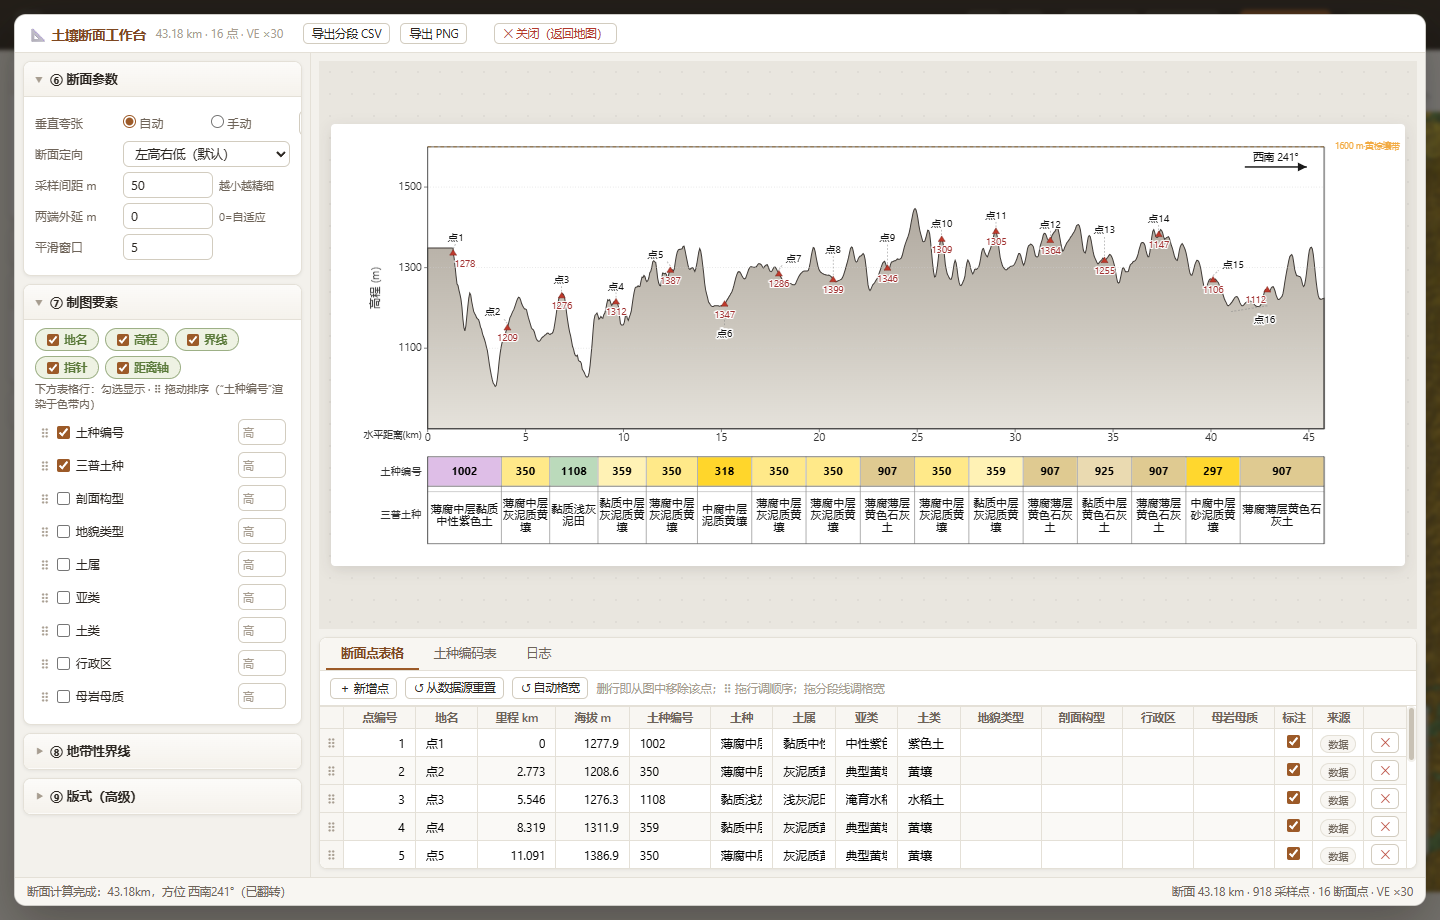
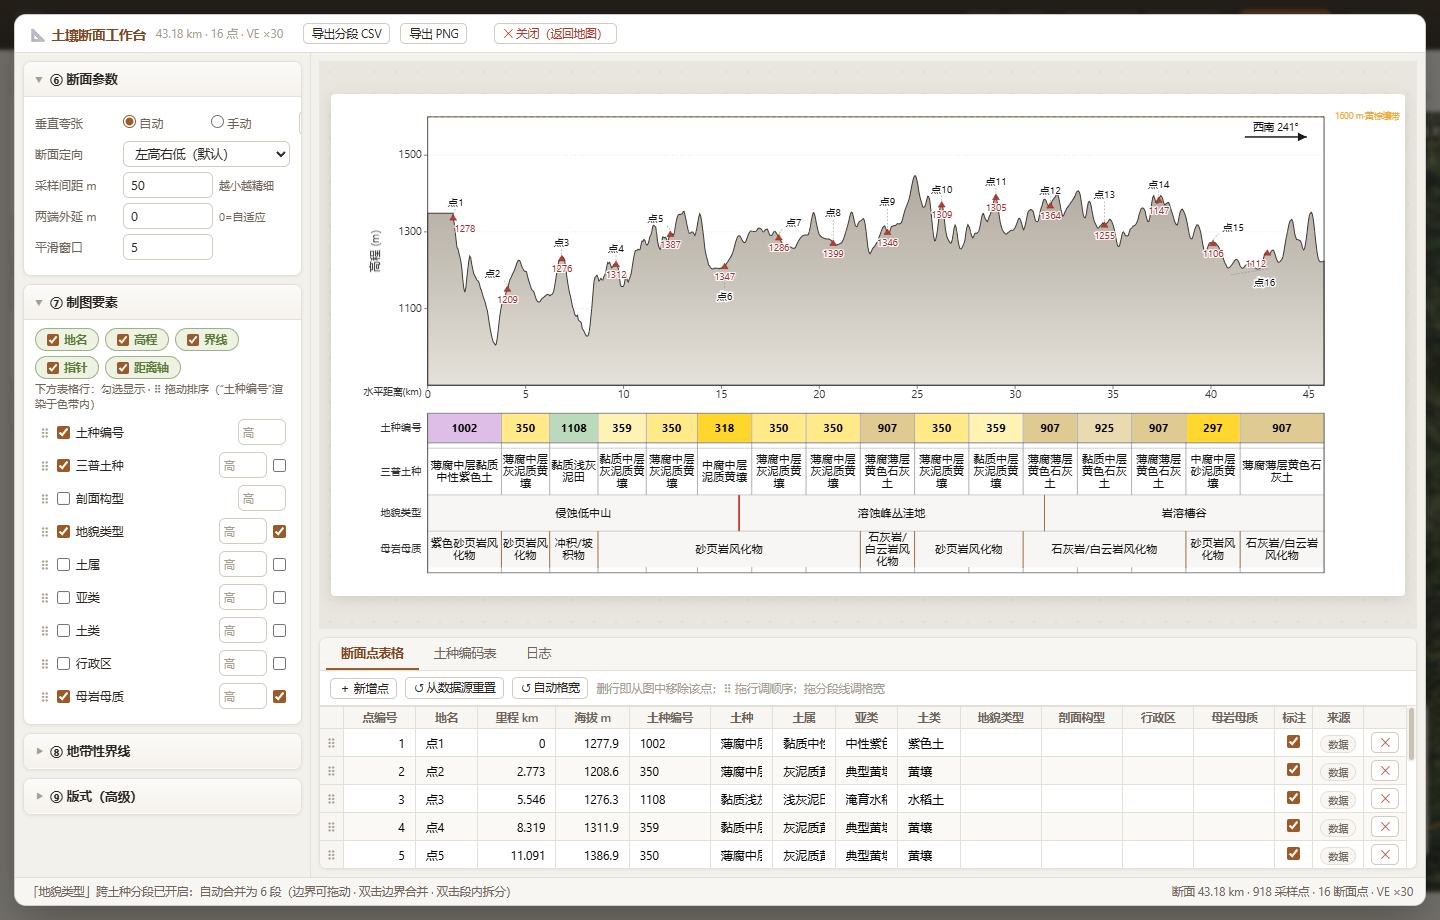
feat: 断面表格行级跨土种分段（band 行）——相邻同值合并、边界独立可拖、双击合并/拆分、段文字编辑；README 断面截图更新（土种编号/三普土种/母岩母质/地貌类型四行，地貌 3 段不对齐）

diff --git a/dist/app.js b/dist/app.js
@@ -88,6 +88,8 @@ const S = {
     labelOffsets: null,     // 地名手动放置偏移 { [no]: {dx,dy} }
     pointerPos: null,       // 方向指针手动位置
     cellSel: null,          // 当前选中格子
+    rowBands: null,         // 行级独立分段 { [rowKey]: [{a,b,text},...] }（与土种格不对齐；相邻同值合并初始化）
+    bandSel: null,          // 当前选中的行分段 { key, k }
     layout: { figW: 0, terrainH: 470, topPad: 1.28, stripH: 46, rowH: 58, fontScale: 1, terr1: "#b0a99f", terr2: "#ccc7be", terr3: "#e5e2db" },
   },
   table: [],
@@ -869,12 +871,51 @@ function zoneRowHtml(z, i) {
   </div><datalist id="tlNames">${(S.builtin.tlNames || []).map(t => `<option value="${esc(t)}"/>`).join("")}</datalist>`;
 }
 function rowItemHtml(r, i) {
+  const bandable = r.key !== "code" && r.key !== "profile";
   return `<div class="rrow" data-i="${i}">
     <span class="gripd" title="拖动调整顺序">⠿</span>
     <input type="checkbox" class="r-on" ${r.on ? "checked" : ""}/>
     <span class="lbl">${r.label}</span>
     <input type="number" class="r-rh" min="20" max="200" step="2" value="${r.rh || ""}" placeholder="高" title="本行行高 px（留空用默认）"/>
+    ${bandable ? `<input type="checkbox" class="r-band" ${r.band ? "checked" : ""} title="跨土种分段：相邻同值自动合并为一条（如地貌类型往往跨多个土种），边界可拖动、双击合并/拆分，与土种格不对齐"/>` : ""}
   </div>`;
+}
+
+/* 开/关行级独立分段：开启时按当前逐格值相邻同值合并初始化条带 */
+function toggleBand(row, on) {
+  const c = S.cfg;
+  row.band = !!on;
+  if (!on) {
+    if (c.rowBands) delete c.rowBands[row.key];
+    if (c.bandSel && c.bandSel.key === row.key) { c.bandSel = null; hideCellBar(); }
+    log(`「${row.label}」已恢复逐格显示`);
+    return;
+  }
+  const svg = $("figure"), ctx = svg && svg.__dragCtx;
+  const res = S.result;
+  if (!ctx || !res || !Array.isArray(res.segments) || res.segments.length < 1) {
+    log("请先生成断面，再开启跨土种分段");
+    row.band = false;
+    buildSidebar();
+    return;
+  }
+  const B = ctx.B;
+  const valOf = (s) => {
+    if (row.key === "lith") return s.lith || SOIL_PARENT[s.tl] || "—";
+    const v = s[row.key];
+    return v == null || v === "" ? "—" : String(v);
+  };
+  const segs = [];
+  res.segments.forEach((s, i) => {
+    const v = valOf(s);
+    const last = segs[segs.length - 1];
+    if (last && last.text === v) last.b = B[i + 1];   // 相邻同值合并（跨土种）
+    else segs.push({ a: B[i], b: B[i + 1], text: v });
+  });
+  if (!c.rowBands) c.rowBands = {};
+  c.rowBands[row.key] = segs;
+  log(`「${row.label}」跨土种分段已开启：自动合并为 ${segs.length} 段（边界可拖动 · 双击边界合并 · 双击段内拆分）`);
+  buildSidebar();
 }
 
 function currentProfile() {
@@ -1053,6 +1094,11 @@ function wireSidebar() {
     if (rhInp) rhInp.onchange = () => {
       const v = +rhInp.value;
       c.rows[i].rh = (rhInp.value === "" || !isFinite(v)) ? 0 : Math.max(20, Math.min(200, v));
+      if (S.result) renderFigure(S.result);
+    };
+    const bandInp = row.querySelector(".r-band");
+    if (bandInp) bandInp.onchange = e => {
+      toggleBand(c.rows[i], e.target.checked);
       if (S.result) renderFigure(S.result);
     };
   });
@@ -1411,6 +1457,12 @@ function renderFigure(res) {
   const xpx = (km) => left + (km + ext) / spanKm * axesW;
   const ypx = (d) => topY + (yTop - d) / (yTop - dispBase) * terrainH;
 
+  /* --- 行级独立分段（band 行）：各行可拥有与土种格不对齐的条带 --- */
+  const bandOf = (row) => (row.band && Array.isArray((c.rowBands || {})[row.key]) && c.rowBands[row.key].length ? c.rowBands[row.key] : null);
+  const rowYs = new Map();
+  { let acc = tableTop + stripH + 8; rowsOn.forEach(r => { rowYs.set(r.key, { y: acc, h: rowHOf(r) }); acc += rowHOf(r); }); }
+  const bandSpans = rowsOn.map(r => ({ row: r, yv: rowYs.get(r.key) })).filter(x => bandOf(x.row));
+
   /* --- 地形剖面（渐变） --- */
   const defs = el("defs", {});
   const grad = el("linearGradient", { id: "terrGrad", x1: 0, y1: 0, x2: 0, y2: 1 });
@@ -1641,6 +1693,7 @@ function renderFigure(res) {
         const rh = rowHOf(row);
         const ry = ryAcc;
         ryAcc += rh;
+        if (bandOf(row)) return;   // band 行在格循环外按行独立绘制（分段与土种格不对齐）；行高已记账
         if (row.key === "profile") {
           const seq = profileSequence(s.tl, s.yl, s.tz);
           if (seq && x1 > x0 + 1) {
@@ -1683,11 +1736,49 @@ function renderFigure(res) {
       });
     });
     const btmY = tableTop + tableH - 8;
+    // 共享边界可见线在 band 行区间内断开（行内分段线独立表达，避免两套竖线交叉）
+    const solidSpans = (() => {
+      if (!bandSpans.length) return [[stripTop, btmY]];
+      const cuts = bandSpans.map(bs => [bs.yv.y, bs.yv.y + bs.yv.h]).sort((p, q) => p[0] - q[0]);
+      const spans = []; let cur = stripTop;
+      for (const [y0, y1] of cuts) { if (y0 > cur + 0.5) spans.push([cur, y0]); cur = Math.max(cur, y1); }
+      if (btmY > cur + 0.5) spans.push([cur, btmY]);
+      return spans;
+    })();
     dispB.slice(1, -1).forEach((b, k) => {
       const j = k + 1, x = xpx0(b);
       const hintB = svg.__dragCtx && svg.__dragCtx.dragHint && svg.__dragCtx.dragHint.type === "bound" && svg.__dragCtx.dragHint.j === j;
-      svg.appendChild(el("line", { x1: x, x2: x, y1: stripTop, y2: btmY, stroke: hintB ? "#c0392b" : "#888", "stroke-width": hintB ? 2.4 : 1, "pointer-events": "none" }));
+      solidSpans.forEach(([y0, y1]) => svg.appendChild(el("line", { x1: x, x2: x, y1: y0, y2: y1, stroke: hintB ? "#c0392b" : "#888", "stroke-width": hintB ? 2.4 : 1, "pointer-events": "none" })));
       svg.appendChild(el("line", { x1: x, x2: x, y1: stripTop, y2: btmY, stroke: "rgba(192,57,43,0)", "stroke-width": 16, "class": "bound-hit", "pointer-events": "all", "data-drag": "bound", "data-j": j, style: "cursor:ew-resize" }));
+    });
+    /* --- band 行绘制：跨土种条带（底色 + 段 + 文字 + 行内边界线） --- */
+    bandSpans.forEach(({ row, yv }) => {
+      const segsB = bandOf(row);
+      const rh = yv.h, ry = yv.y;
+      svg.appendChild(el("rect", { x: left, y: ry, width: right - left, height: rh, fill: "rgba(140,100,60,0.06)", "pointer-events": "none" }));
+      segsB.forEach((sg, k) => {
+        let x0 = xpx(Math.max(0, Math.min(sg.a ?? 0, totalKm)));
+        let x1 = xpx(Math.max(0, Math.min(sg.b ?? totalKm, totalKm)));
+        if (k === 0) x0 = left;
+        if (k === segsB.length - 1) x1 = right;
+        if (x1 <= x0 + 0.5) return;
+        const selB = c.bandSel && c.bandSel.key === row.key && c.bandSel.k === k;
+        if (selB) svg.appendChild(el("rect", { x: x0 + 1.5, y: ry + 1.5, width: x1 - x0 - 3, height: rh - 3, fill: "none", stroke: "#c0392b", "stroke-width": 2.2, "pointer-events": "none" }));
+        svg.appendChild(el("rect", { x: x0, y: ry, width: x1 - x0, height: rh, fill: "transparent", "data-drag": "bcell", "data-bk": row.key, "data-k": k, "pointer-events": "all", style: "cursor:pointer" }));
+        const v = sg.text == null || sg.text === "" ? "—" : String(sg.text);
+        const fit = tzFit(v, x1 - x0);
+        const fs2 = Math.min(fit.fs, 15.3);
+        const lh2 = fs2 * 1.18;
+        const yFirst = ry + rh / 2 - (fit.lines.length - 1) * lh2 / 2 + fs2 * 0.36;
+        const e = el("text", { x: (x0 + x1) / 2, y: yFirst, "font-size": fs2.toFixed(1), fill: "#111", "text-anchor": "middle", "pointer-events": "none" });
+        fit.lines.forEach((line, li2) => e.appendChild(el("tspan", { x: (x0 + x1) / 2, dy: li2 === 0 ? 0 : lh2 }, line)));
+        svg.appendChild(e);
+        if (k >= 1) {
+          const hintBB = svg.__dragCtx && svg.__dragCtx.dragHint && svg.__dragCtx.dragHint.type === "bbound" && svg.__dragCtx.dragHint.key === row.key && svg.__dragCtx.dragHint.i === k;
+          svg.appendChild(el("line", { x1: x0, x2: x0, y1: ry, y2: ry + rh, stroke: hintBB ? "#c0392b" : "#8a5a2a", "stroke-width": hintBB ? 2.6 : 1.3, "pointer-events": "none" }));
+          svg.appendChild(el("line", { x1: x0, x2: x0, y1: ry, y2: ry + rh, stroke: "rgba(192,57,43,0)", "stroke-width": 16, "pointer-events": "all", "data-drag": "bbound", "data-bk": row.key, "data-k": k, style: "cursor:ew-resize" }));
+        }
+      });
     });
     svg.appendChild(el("line", { x1: left, x2: right, y1: stripTop, y2: stripTop, stroke: "#666", "stroke-width": 1.2 }));
     svg.appendChild(el("line", { x1: left, x2: right, y1: stripTop + stripH, y2: stripTop + stripH, stroke: "#666", "stroke-width": 1.2 }));
@@ -1749,21 +1840,24 @@ function bindDragEngine(svg) {
     const sc = Math.min(rect.width / vb[2], rect.height / vb[3]) || 1;
     const ox = (rect.width - vb[2] * sc) / 2, oy = (rect.height - vb[3] * sc) / 2;
     try { svg.setPointerCapture(e.pointerId); } catch (_) {}
-    const st = { type, key: t.dataset.j ?? t.dataset.no ?? t.dataset.i, snap: snapshotState(), moved: false };
+    const st = { type, key: t.dataset.j ?? t.dataset.no ?? t.dataset.i, bk: t.dataset.bk || null, bkI: t.dataset.k != null ? +t.dataset.k : -1, snap: snapshotState(), moved: false };
     const kmAt = ev => { const x = (ev.clientX - rect.left - ox) / sc; return (x - ctx0.left) * ctx0.spanKm / ctx0.axesW - ctx0.ext; };
     const xyAt = ev => ({ x: (ev.clientX - rect.left - ox) / sc, y: (ev.clientY - rect.top - oy) / sc });
     const move = ev => { if (applyDrag(svg, st, kmAt(ev), xyAt(ev))) st.moved = true; };
-    const up = () => {
+    const up = (ev) => {
       svg.removeEventListener("pointermove", move);
       svg.removeEventListener("pointerup", up);
       svg.removeEventListener("pointercancel", up);
       if (svg.__dragCtx) svg.__dragCtx.bubble = null;
       if (!st.moved) {
         const now = Date.now();
-        const isDbl = __lastClick && __lastClick.type === st.type && String(__lastClick.key) === String(st.key) && now - __lastClick.t < 450;
-        __lastClick = { type: st.type, key: st.key, t: now };
-        if (isDbl) { onDragDblClick(svg, st); __lastClick = null; }
+        const isDbl = __lastClick && __lastClick.type === st.type && String(__lastClick.key) === String(st.key)
+          && String(__lastClick.bk || "") === String(st.bk || "") && String(__lastClick.bkI) === String(st.bkI)
+          && now - __lastClick.t < 450;
+        __lastClick = { type: st.type, key: st.key, bk: st.bk, bkI: st.bkI, t: now };
+        if (isDbl) { onDragDblClick(svg, st, ev ? xyAt(ev) : null); __lastClick = null; }
         else if (st.type === "cell") selectCell(+st.key);
+        else if (st.type === "bcell" && st.bk) selectBandCell(st.bk, st.bkI);
         if (svg.__dragCtx) renderFigure(svg.__dragCtx.res);
         return;
       }
@@ -1820,6 +1914,20 @@ function applyDrag(svg, st, km, xy) {
     if (c.pointerPos && Math.abs(c.pointerPos.x - x) < 0.5 && Math.abs(c.pointerPos.y - y) < 0.5) return false;
     c.pointerPos = { x: +x.toFixed(1), y: +y.toFixed(1) };
     ctx.dragHint = { type: "pointer" };
+  } else if (st.type === "bbound") {
+    // 行级分段边界拖拽：钳制在相邻两段之间（不吸附土种格边界，自由不对齐）
+    const segsB = (c.rowBands || {})[st.bk];
+    if (!Array.isArray(segsB)) return false;
+    const i = st.bkI;
+    if (i < 1 || i >= segsB.length) return false;
+    const minW = Math.max(ctx.spanKm * 0.004, 0.02);
+    const lo = segsB[i - 1].a + minW, hi = segsB[i].b - minW;
+    const v = Math.min(Math.max(km, lo), hi);
+    if (Math.abs(v - segsB[i].a) < 1e-6) return false;
+    segsB[i - 1].b = v; segsB[i].a = v;
+    const rowLabel = (c.rows.find(r => r.key === st.bk) || {}).label || st.bk;
+    ctx.dragHint = { type: "bbound", key: st.bk, i };
+    ctx.bubble = { text: `${rowLabel} 边界 ${v.toFixed(2)} km ｜ 左段 ${(v - segsB[i - 1].a).toFixed(2)}km·${((v - segsB[i - 1].a) * ctx.ppk).toFixed(0)}px ｜ 右段 ${(segsB[i].b - v).toFixed(2)}km·${((segsB[i].b - v) * ctx.ppk).toFixed(0)}px` };
   } else return false;
   renderFigure(ctx.res);
   return true;
@@ -1827,7 +1935,7 @@ function applyDrag(svg, st, km, xy) {
 function afterDragEnd(svg, st) {
   if (st.type === "point") computeDebounced();
 }
-function onDragDblClick(svg, st) {
+function onDragDblClick(svg, st, xy) {
   const ctx = svg.__dragCtx;
   if (!ctx) return;
   const c = ctx.c;
@@ -1843,6 +1951,28 @@ function onDragDblClick(svg, st) {
   } else if (st.type === "cell") {
     c.cellSel = null; hideCellBar();
     return;
+  } else if (st.type === "bbound") {
+    // 双击行内分段边界：合并相邻两段（保留左段文字）
+    const segsB = (c.rowBands || {})[st.bk];
+    if (!Array.isArray(segsB) || st.bkI < 1 || st.bkI >= segsB.length) return;
+    const L = segsB[st.bkI - 1], R = segsB[st.bkI];
+    segsB.splice(st.bkI - 1, 2, { a: L.a, b: R.b, text: L.text || R.text || "" });
+    if (c.bandSel && c.bandSel.key === st.bk) c.bandSel = null;
+    hideCellBar();
+    const rowLabel = (c.rows.find(r => r.key === st.bk) || {}).label || st.bk;
+    log(`${rowLabel}行：双击合并分段（现 ${segsB.length} 段）`);
+  } else if (st.type === "bcell" && xy) {
+    // 双击行内分段：在点击处拆分为两段
+    const segsB = (c.rowBands || {})[st.bk];
+    if (!Array.isArray(segsB) || st.bkI < 0 || st.bkI >= segsB.length) return;
+    const sg = segsB[st.bkI];
+    const minW = Math.max(ctx.spanKm * 0.004, 0.02);
+    const km = (xy.x - ctx.left) * ctx.spanKm / ctx.axesW - ctx.ext;
+    const v = Math.min(Math.max(km, sg.a + minW), sg.b - minW);
+    if (v <= sg.a + minW * 0.5 || v >= sg.b - minW * 0.5) { log("该段太窄，无法再拆分"); return; }
+    segsB.splice(st.bkI, 1, { a: sg.a, b: v, text: sg.text || "" }, { a: v, b: sg.b, text: sg.text || "" });
+    const rowLabel = (c.rows.find(r => r.key === st.bk) || {}).label || st.bk;
+    log(`${rowLabel}行：双击拆分分段（现 ${segsB.length} 段）`);
   } else return;
 }
 function selectCell(i) {
@@ -1850,12 +1980,36 @@ function selectCell(i) {
   showCellBar(i);
   if (S.result) renderFigure(S.result);
 }
+function selectBandCell(key, k) {
+  S.cfg.cellSel = null;
+  S.cfg.bandSel = { key, k };
+  const segsB = (S.cfg.rowBands || {})[key];
+  if (!Array.isArray(segsB) || k < 0 || k >= segsB.length) { hideCellBar(); return; }
+  const bar = $("cellBar");
+  if (!bar) return;
+  bar.style.display = "flex";
+  bar.dataset.band = key; bar.dataset.bandK = k;
+  delete bar.dataset.i;
+  const rowLabel = (S.cfg.rows.find(r => r.key === key) || {}).label || key;
+  $("cellBarTitle").textContent = `${rowLabel} · 第 ${k + 1} 段`;
+  const cellG = $("cellBarCell"), bandG = $("cellBarBand");
+  if (cellG) cellG.style.display = "none";
+  if (bandG) bandG.style.display = "inline-flex";
+  const inp = $("bandText");
+  if (inp) { inp.value = segsB[k].text == null ? "" : String(segsB[k].text); }
+  if (S.result) renderFigure(S.result);
+}
 function showCellBar(i) {
   const bar = $("cellBar");
   if (!bar) return;
   bar.style.display = "flex";
-  $("cellBarTitle").textContent = `第 ${i + 1} 格`;
+  S.cfg.bandSel = null;
   bar.dataset.i = i;
+  delete bar.dataset.band; delete bar.dataset.bandK;
+  $("cellBarTitle").textContent = `第 ${i + 1} 格`;
+  const cellG = $("cellBarCell"), bandG = $("cellBarBand");
+  if (cellG) cellG.style.display = "inline-flex";
+  if (bandG) bandG.style.display = "none";
 }
 function hideCellBar() {
   const bar = $("cellBar");
@@ -2717,7 +2871,50 @@ document.querySelectorAll("#cellBar button[data-mb]").forEach(b => b.onclick = (
   const d = +b.dataset.mb * step;
   moveBound(b.dataset.side === "L" ? i : i + 1, d);
 });
-$("cellBarClose").onclick = () => { S.cfg.cellSel = null; hideCellBar(); if (S.result) renderFigure(S.result); };
+$("cellBarClose").onclick = () => { S.cfg.cellSel = null; S.cfg.bandSel = null; hideCellBar(); if (S.result) renderFigure(S.result); };
+/* 行分段编辑条：文字 / 中点拆分 / 合并右段 */
+const __bt = $("bandText");
+if (__bt) {
+  let __btT = null;
+  __bt.oninput = () => {
+    const bar = $("cellBar");
+    const segsB = (S.cfg.rowBands || {})[bar.dataset.band];
+    const k = +bar.dataset.bandK;
+    if (!Array.isArray(segsB) || !(k >= 0) || k >= segsB.length) return;
+    segsB[k].text = __bt.value;
+    clearTimeout(__btT);
+    __btT = setTimeout(() => renderFigure(S.result), 180);   // 去抖即时渲染，输入跟手
+  };
+}
+const __bs = $("bandSplit");
+if (__bs) __bs.onclick = () => {
+  const bar = $("cellBar");
+  const segsB = (S.cfg.rowBands || {})[bar.dataset.band];
+  const k = +bar.dataset.bandK;
+  const svg = $("figure"), ctx = svg.__dragCtx;
+  if (!Array.isArray(segsB) || !(k >= 0) || k >= segsB.length || !ctx) return;
+  const sg = segsB[k];
+  const minW = Math.max(ctx.spanKm * 0.004, 0.02);
+  if (sg.b - sg.a < minW * 2) { log("该段太窄，无法再拆分"); return; }
+  const snap = snapshotState();
+  const v = (sg.a + sg.b) / 2;
+  segsB.splice(k, 1, { a: sg.a, b: v, text: sg.text || "" }, { a: v, b: sg.b, text: sg.text || "" });
+  renderFigure(S.result);
+  pushUndo(snap);
+};
+const __bm = $("bandMerge");
+if (__bm) __bm.onclick = () => {
+  const bar = $("cellBar");
+  const segsB = (S.cfg.rowBands || {})[bar.dataset.band];
+  const k = +bar.dataset.bandK;
+  if (!Array.isArray(segsB) || !(k >= 0) || k >= segsB.length - 1) { log("已是最后一段，无右段可合并"); return; }
+  const snap = snapshotState();
+  const L = segsB[k], R = segsB[k + 1];
+  segsB.splice(k, 2, { a: L.a, b: R.b, text: L.text || R.text || "" });
+  renderFigure(S.result);
+  selectBandCell(bar.dataset.band, k);
+  pushUndo(snap);
+};
 const cs2 = $("codeSearch");
 if (cs2) cs2.oninput = renderCodesTable;
 document.querySelectorAll(".tab").forEach(t => t.onclick = () => {

diff --git a/dist/index.html b/dist/index.html
@@ -90,17 +90,26 @@
                 </div>
                 <div id="cellBar" style="display:none">
                   <span id="cellBarTitle" style="font-weight:600;color:#c0392b"></span>
-                  <span class="sep"></span>
-                  <span class="mini">左边界</span>
-                  <button class="btn small" data-mb="-1" data-side="L">◀ 左移</button>
-                  <button class="btn small" data-mb="1" data-side="L">右移 ▶</button>
-                  <span class="sep"></span>
-                  <span class="mini">右边界</span>
-                  <button class="btn small" data-mb="-1" data-side="R">◀ 左移</button>
-                  <button class="btn small" data-mb="1" data-side="R">右移 ▶</button>
-                  <span class="sep"></span>
-                  <span class="mini">步长 km</span>
-                  <input id="cellStep" type="number" step="0.1" min="0.05" max="10" value="0.5" style="width:52px" />
+                  <span id="cellBarCell" style="display:inline-flex;align-items:center;gap:6px">
+                    <span class="sep"></span>
+                    <span class="mini">左边界</span>
+                    <button class="btn small" data-mb="-1" data-side="L">◀ 左移</button>
+                    <button class="btn small" data-mb="1" data-side="L">右移 ▶</button>
+                    <span class="sep"></span>
+                    <span class="mini">右边界</span>
+                    <button class="btn small" data-mb="-1" data-side="R">◀ 左移</button>
+                    <button class="btn small" data-mb="1" data-side="R">右移 ▶</button>
+                    <span class="sep"></span>
+                    <span class="mini">步长 km</span>
+                    <input id="cellStep" type="number" step="0.1" min="0.05" max="10" value="0.5" style="width:52px" />
+                  </span>
+                  <span id="cellBarBand" style="display:none;align-items:center;gap:6px">
+                    <span class="sep"></span>
+                    <span class="mini">段文字</span>
+                    <input id="bandText" style="width:150px" placeholder="如：低山台地" />
+                    <button class="btn small" id="bandSplit" title="在段中点拆分为两段">✂ 拆分</button>
+                    <button class="btn small" id="bandMerge" title="与右侧相邻段合并">⇄ 合并右段</button>
+                  </span>
                   <button class="btn small" id="cellBarClose" title="取消选中">✕</button>
                 </div>
                 <svg id="figure" xmlns="http://www.w3.org/2000/svg"></svg>

diff --git a/README.en.md b/README.en.md
@@ -12,7 +12,7 @@ Tech stack: Rust · Tauri 2 · MapLibre GL · GDAL 3.10 (dynamically loaded via 
 
 ![Map workbench](screenshots/main-view.png)
 
-**Soil type section figure** — terrain profile, soil species color band, soil code / soil species table, zonal boundary lines, and direction pointer:
+**Soil type section figure** — terrain profile, soil species color band, and a table of soil code / soil species / parent material / landform type (3 landform bands spanning multiple soil cells, boundaries not aligned):
 
 ![Soil type section figure](screenshots/section-figure.png)
 
@@ -29,6 +29,7 @@ Tech stack: Rust · Tauri 2 · MapLibre GL · GDAL 3.10 (dynamically loaded via 
 - Section computation: sampling interval, end extension, smoothing, orientation (high-to-low / reversed / along the line), vertical exaggeration (auto or manual)
 - Maximin cell-width algorithm: midpoint segmentation between adjacent points + bisection for minimum cell width, keeping labels readable in narrow cells
 - Table rows: toggle, drag to reorder, per-row height; global font scale applied to all text; figure width 0–6000 px; slider and numeric input for every parameter
+- Cross-cell band rows: rows such as landform type or parent material can be switched to "band" mode — adjacent equal cells merge into one band (e.g. 16 soil species cells collapse into 3 landform segments); band boundaries are independent of soil cell boundaries, draggable, double-click to merge/split, click a band to edit its text
 - Zonal boundary lines automatically take the soil order color when the name contains one
 - Section point table: all fields editable, soil species and elevation extracted along the line by distance, drag to reorder, add/delete rows synced across table, figure, and map
 

diff --git a/README.md b/README.md
@@ -12,7 +12,7 @@
 
 ![地图工作台](screenshots/main-view.png)
 
-**土壤类型断面图** —— 地形剖面、土种色带、土种编号/三普土种表格、地带性界线与方向指针：
+**土壤类型断面图** —— 地形剖面、土种色带、土种编号/三普土种/母岩母质/地貌类型表格（地貌 3 段跨土种、边界不对齐）、地带性界线与方向指针：
 
 ![土壤类型断面图](screenshots/section-figure.png)
 
@@ -29,6 +29,7 @@
 - 断面计算：采样间距、两端外延、平滑、定向（左高右低/反向/按线）、垂直夸张（自动/手动）
 - maximin 单元格宽度算法：相邻点中点分段 + 二分最小格宽，窄格文字可读、点位标注落入格内
 - 显示行：勾选、拖动排序、行内独立行高；整体字号作用于全部文字；图幅宽度 0~6000 px；滑块与数字输入双通道
+- 跨土种分段行：地貌类型、母岩母质等可开启「跨格」模式——相邻同值自动合并为独立条带（如 16 个土种格合并为 3 个地貌段），分段边界与土种格不对齐、可拖动微调，双击边界合并、双击段内拆分、点击段编辑文字
 - 地带性界线：名称含土类名自动取土类色
 - 断面点表格：全字段可编辑、按里程沿线提取土种/高程、拖动重排、增删行与图/地图同步
 
